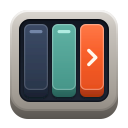
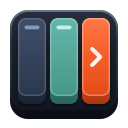
feat(brand): use single-wrap dark obsidian deck and slate ceditor pane

diff --git a/docs/brand/README.md b/docs/brand/README.md
@@ -6,31 +6,31 @@
 | :-: | :-: |
 | <img src="../../packaging/dev.cagents.Cagents.svg" width="128" alt="cagents icon"> | <img src="../../packaging/io.github.cagents.ceditor.svg" width="128" alt="ceditor icon"> |
 
-Both icons share the same tactile 2.5D brushed-titanium switchboard chassis
-and recessed obsidian bay, following GNOME Circle / Libadwaita orthographic
-proportions.
+Both icons share the same tactile 2.5D machined obsidian switchboard chassis
+following GNOME Circle / Libadwaita orthographic proportions, with modules
+seated directly on the deck body.
 
 - **cagents** houses three chunky vertical workspace modules — deep slate-navy,
   cool teal-mint, and a focal coral-orange active lane etched with a crisp `>`
   prompt chevron — communicating parallel coding agents with one workspace in
   focus.
-- **ceditor** uses the same titanium chassis with a slim slate-navy gutter rail
-  beside a warm-ivory tactile editorial page, chunky syntax bars, and a focal
-  coral-orange caret so the two icons are unmistakable at a glance on a dock.
+- **ceditor** uses the same obsidian chassis with a slim cool teal-mint gutter
+  rail beside a wide deep slate-navy editor pane, chunky syntax bars, a bright
+  active line, and a focal coral-orange caret.
 
 At tray and task bar sizes (16-22 px) both marks remain crisp and distinct:
-three coloured vertical lanes vs. a light editorial page with a dark gutter.
+three equal coloured vertical lanes vs. a slim teal gutter beside a dark editor
+pane with an active line and coral caret.
 
 ## Construction
 
 - Chassis: 108 × 101 px rounded rectangle (`rx = 18`) with an 8 px orthographic
-  bottom lip (`#8A847D` → `#58544F`) and brushed warm-titanium face
-  (`#DCD8D2` → `#918B83`) over a recessed obsidian bay (`#111722` → `#1D2534`).
-- Modules: 2.5D tactile keycaps (`rx = 5.5–6`) with subtle top rim highlights
-  and grounded bottom edges.
-- Palette: deep slate-navy (`#3C4B66` → `#2A364B`), cool teal-mint
-  (`#60B2A4` → `#469689`), warm ivory (`#FAF8F4` → `#EAE6DE`), and focal
-  coral-orange (`#FF7847` → `#E64F1E`).
+  bottom lip (`#141923` → `#090C12`) and satin obsidian face
+  (`#272F3F` → `#11151F`) framed by a subtle top rim light.
+- Modules: 2.5D tactile keycaps (`rx = 7.5–8`) seated directly on the chassis
+  with subtle top rim highlights and grounded bottom edges.
+- Palette: deep slate-navy (`#3F4F6B` → `#2B374D`), cool teal-mint
+  (`#64B8AA` → `#459689`), and focal coral-orange (`#FF7A48` → `#E34C1A`).
 
 ## Files
 
